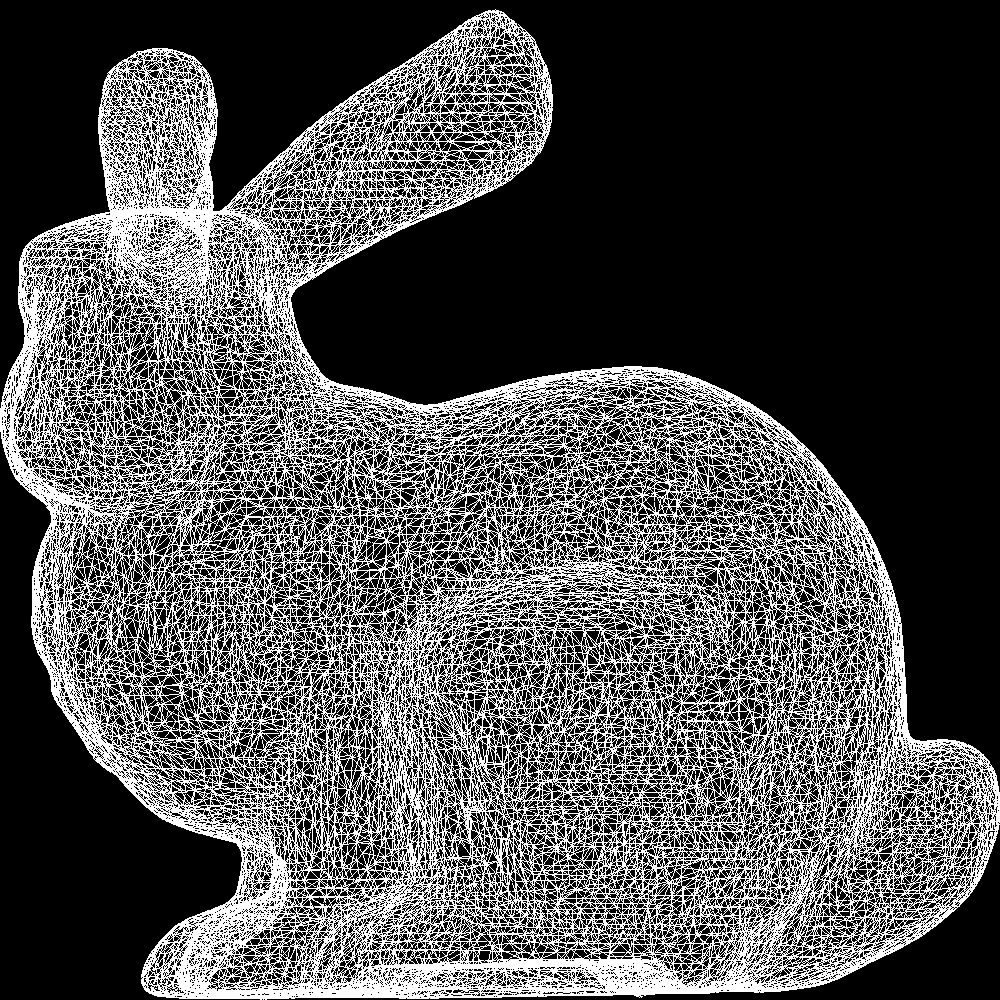
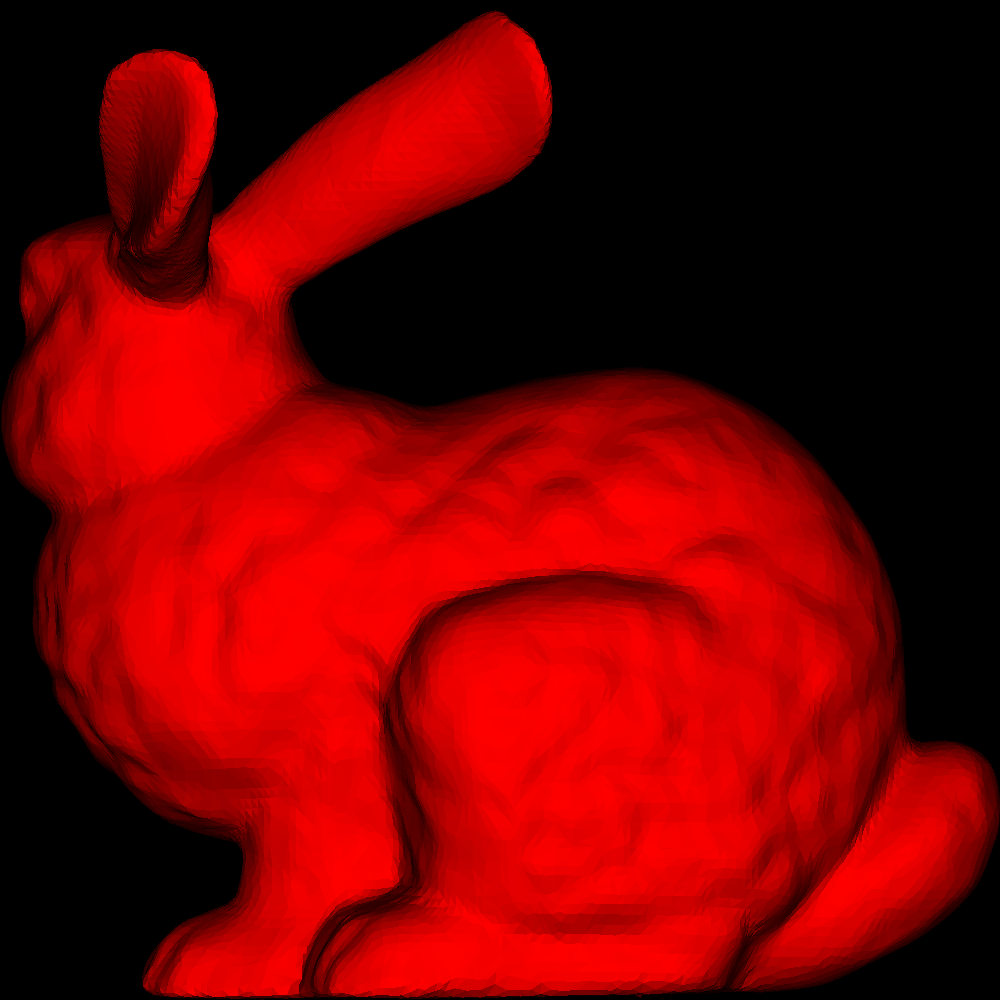
laba2

diff --git a/main.py b/main.py
@@ -1,64 +1,106 @@
-import numpy as np
+import numpy as np # библиотеки
 from PIL import Image
-from math import floor
-img_mnt = np.zeros((1000,1000,3), dtype=np.uint8)
+from math import sqrt
 
-file = open('model.obj')
-v = []
-f = []
+W, H = 1000, 1000 # размеры окна
+img_mnt = np.zeros((H, W, 3), dtype=np.uint8) # буфер изображения (черное)
+z_buffer = np.full((H, W), 1e9, dtype=np.float64) # z-буфер
 
-def line(img_mat,x0,y0,x1,y1):
-    dx = abs(x1-x0)
-    dy = abs(y1-y0)
-    dmax = max(dx,dy)
-    L = int(dmax) + 1
+v = [] # вершины
+f = [] # грани
 
-    if L == 1:
-        px = floor(x0)
-        py = floor(y0)
-        if 0 <= px < 1000 and 0 <= py < 1000:
-            img_mat[py,px] = 255
+with open('model.obj', 'r') as file: # открываем файл в режимы чтения
+    for s in file:
+        sp = s.split() # разбиваем строку
+        if not sp: # пропускаем пустые строки
+            continue
+        if sp[0] == 'v': # если вершина
+            v.append([float(sp[1]), float(sp[2]), float(sp[3])]) # добавляем
+        elif sp[0] == 'f': # если грань
+            face = []
+            for sf in sp[1:4]: # берем вершины треугольника
+                sf_parts = sf.split('/') # разбиваем
+                sf_index = int(sf_parts[0])
+                face.append(sf_index) # добавляем индекс в грань
+            f.append(face) # добавляем грань
+
+def draw_triangle_numpy(image, z_buffer, v0, v1, v2, z0, z1, z2, color=(255, 255, 255)): # функция отрисовки треугольника
+    H_img, W_img = image.shape[:2] # размеры
+    x0, y0 = v0 # распаковываем координаты вершин
+    x1, y1 = v1
+    x2, y2 = v2
+
+    ix_min = max(0, int(np.floor(min(x0, x1, x2)))) # левая граница
+    ix_max = min(W_img - 1, int(np.ceil(max(x0, x1, x2)))) # правая граница
+    iy_min = max(0, int(np.floor(min(y0, y1, y2)))) # верхняя граница
+    iy_max = min(H_img - 1, int(np.ceil(max(y0, y1, y2)))) # нижняя граница
+
+    if ix_min > ix_max or iy_min > iy_max: # если вне экрана выходим
         return
-    
-    steps = L-1
-    dx = (x1-x0) / steps
-    dy = (y1-y0) / steps
-    x,y = x0,y0
 
-    for _ in range(L):
-        px = floor(x)
-        py = floor(y)
+    xs = np.arange(ix_min, ix_max + 1) # массивы координат x,y
+    ys = np.arange(iy_min, iy_max + 1)
+    X, Y = np.meshgrid(xs, ys) # сетка координат
 
-        if 0 <= px < 1000 and 0 <= py < 1000:
-            img_mat[py,px] = 255
-        x += dx
-        y += dy
+    denom = (x0 - x2) * (y1 - y2) - (x1 - x2) * (y0 - y2) # знаменатель барицентрических координат
+    if denom == 0.0: # если треугольник вырожденный выходим
+        return
 
-for s in file:
-    sp = s.split()
-    if (sp[0] == 'v'):
-        v.append([float(sp[1]), float(sp[2]), float(sp[3])])
-    if(sp[0] == 'f'):
-        face = []
-        for sf in sp[1:4]:
-            sf_parts = sf.split('/')
-            sf_index = int(sf_parts[0])
-            face.append(sf_index)
-        f.append(face)
+    l0 = ((X - x2) * (y1 - y2) - (x1 - x2) * (Y - y2)) / denom # l0 координата
+    l1 = ((x0 - x2) * (Y - y2) - (X - x2) * (y0 - y2)) / denom # l1 координата
+    l2 = 1.0 - l0 - l1  # l2 координата
 
-print(f)
+    mask = (l0 >= 0.0) & (l1 >= 0.0) & (l2 >= 0.0) # маска пикселей внутри треугольника
 
-for i in range(len(f)):
-    x0 = float(10000* v[f[i][0]-1][0]+500)
-    y0 = float(-10000* v[f[i][0]-1][1]+1000)
-    x1 = float(10000* v[f[i][1]-1][0]+500)
-    y1 = float(-10000* v[f[i][1]-1][1]+1000)
-    x2 = float(10000* v[f[i][2]-1][0]+500)
-    y2 = float(-10000* v[f[i][2]-1][1]+1000)
+    z = l0 * z0 + l1 * z1 + l2 * z2 # интерполяция глубины треугольника
 
-    line(img_mnt,x0,y0,x1,y1)
-    line(img_mnt,x1,y1,x2,y2)
-    line(img_mnt,x2,y2,x0,y0)
+    z_slice = z_buffer[iy_min:iy_max + 1, ix_min:ix_max + 1] # срез z-буфера под наши массивы координат
+    z_mask = mask & (z < z_slice) # рисуем только если он ближе
 
-img = Image.fromarray(img_mnt)
-img.save('img.png')
+    image[iy_min:iy_max + 1, ix_min:ix_max + 1][z_mask] = color # закрашиваем только то что нужно
+    z_buffer[iy_min:iy_max + 1, ix_min:ix_max + 1][z_mask] = z[z_mask] # обновляем глубину
+
+for i in range(len(f)): # проходимся по граням
+    p0 = v[f[i][0] - 1] # вершины
+    p1 = v[f[i][1] - 1]
+    p2 = v[f[i][2] - 1]
+
+    ux = p1[0] - p2[0] # векторы u = p1 - p2
+    uy = p1[1] - p2[1]
+    uz = p1[2] - p2[2]
+
+    vx = p1[0] - p0[0] # векторы v = p1 - p0
+    vy = p1[1] - p0[1]
+    vz = p1[2] - p0[2]
+
+    nx = uy * vz - uz * vy # нормали u * v
+    ny = uz * vx - ux * vz
+    nz = ux * vy - uy * vx
+
+    norm_n = sqrt(nx*nx + ny*ny + nz*nz) # длина нормали
+
+    if norm_n == 0: # пропускаем если вырожденный треугольник
+        continue
+
+    cos_alpha = nz / norm_n # освещенность
+
+    if cos_alpha < 0: # только если смотрит в камеру
+        intensity = int(-255 * cos_alpha) # вычисляем освещенность
+        intensity = max(0, min(255, intensity)) # ограничеваем от 0 до 255
+        color = (intensity, 0, 0) # красный с освещенностью
+
+        x0 = 10000 * p0[0] + 500 # координаты с учетом масштаба и смещения (для красивого отображения)
+        y0 = -10000 * p0[1] + 1000
+        x1 = 10000 * p1[0] + 500
+        y1 = -10000 * p1[1] + 1000
+        x2 = 10000 * p2[0] + 500
+        y2 = -10000 * p2[1] + 1000
+
+        z0 = p0[2] # глубины вершин берем из z координат
+        z1 = p1[2]
+        z2 = p2[2]
+
+        draw_triangle_numpy(img_mnt, z_buffer, (x0, y0), (x1, y1), (x2, y2), z0, z1, z2, color=color) # рисуем
+
+img = Image.fromarray(img_mnt) # превращаем в изображение
+img.save('img.png') # сохраняем
